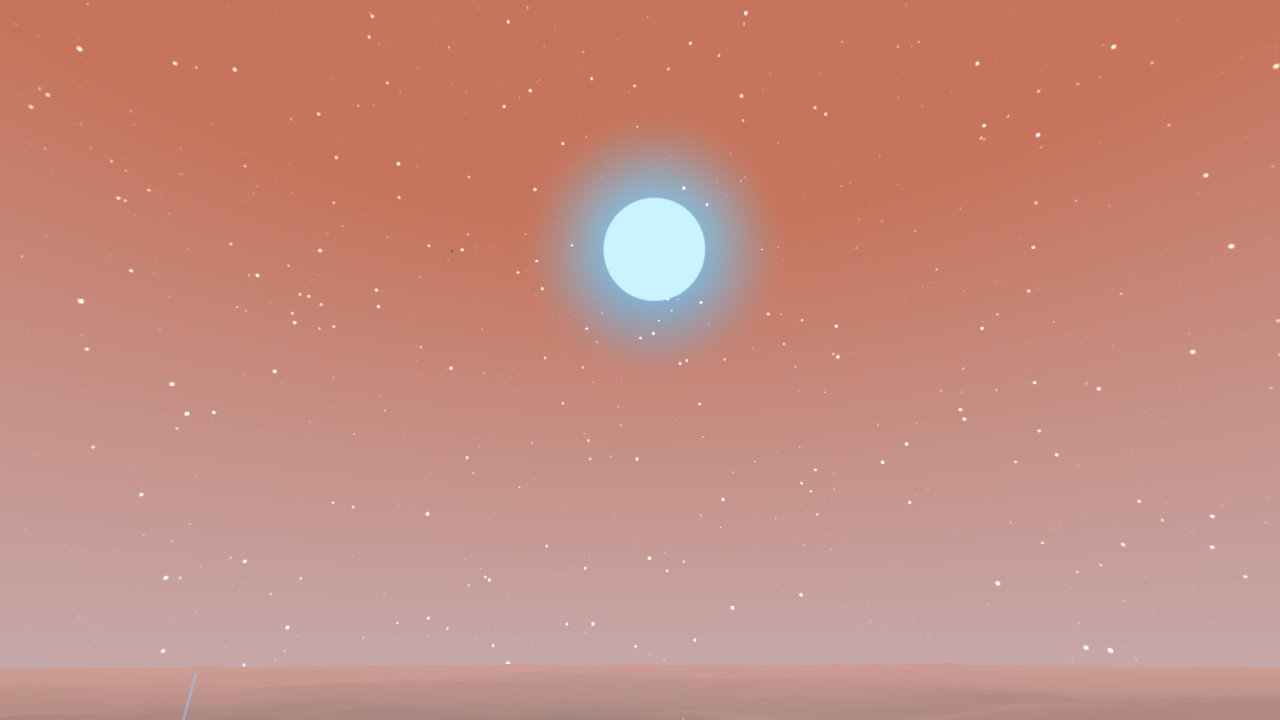
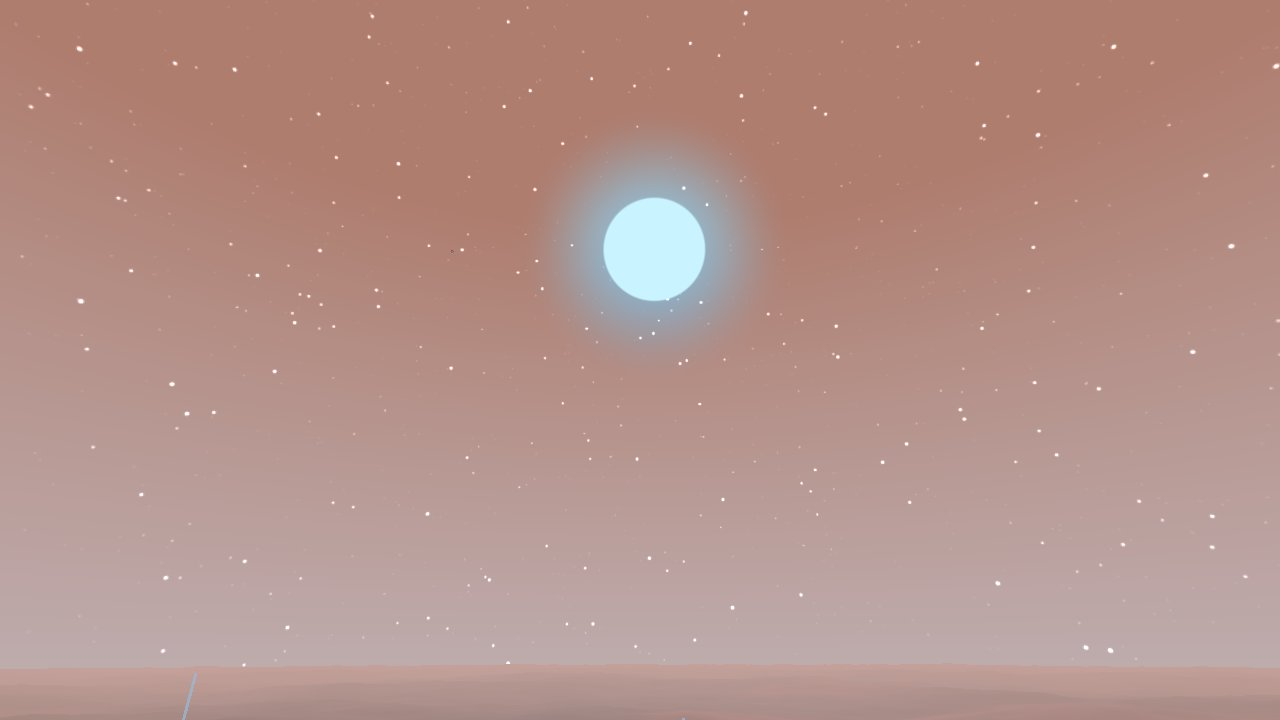
Aurelia's day sky matches Rodina's measured sky (calibrated grey-down standing in for Rodina's unrecovered filter pass)
Upper sky (174,125,110) vs measured #ae7b70 (174,123,112). Report and v8 shots updated.
Full suite: 356 passed, 0 failed.

Claude-Session: https://claude.ai/code/session_01KVkUNEuEnzA3ZQcTXczkja

diff --git a/docs/N13_GRAPHICS_PORT.md b/docs/N13_GRAPHICS_PORT.md
@@ -208,19 +208,23 @@ DeepSeek measured; HSV of the mean colour, four dominant colours). Shots: `docs/
 | Ceiling lights White/Soft/Green/Wide/Emergency | EGDataItems.lua:212-260 | data; room assignment is Sol's |
 | HUD fonts Orbitron / Audiowide / Michroma, sizes and colours | Render/MenuFonts.lua (fonts: OFL, Google Fonts) | data |
 | Camera FOV 60 while the setting is at Sol's default | EGOptions.lua:26 | data; vertical FOV inferred |
+| Aurelia day sky greyed 40 % toward its luma | measured sky #ae7b70 / #ba9996 | calibrated |
 
 Results (Sol render vs Rodina frame, mean colour):
 
 | Scene | Sol | Rodina |
 |---|---|---|
-| Ground by the landed ship vs steam01_salmon_sky_mountains | (121, 92, 85), value 0.48 | (123, 92, 83), value 0.48 |
+| Ground by the landed ship vs steam01_salmon_sky_mountains | (115, 95, 89), value 0.45 | (123, 92, 83), value 0.48 |
 | Lit planet from orbit (pixels on the disc) vs the dominant #aa7d4e | about (169, 131, 92) | (170, 125, 78) |
 | Ship against space vs videoT90_19_ship_silhouette (render from before the bloom/space-colour change) | value 0.12, hue 260 | value 0.13, hue 256 |
 | Interior cabin vs four interior frames (same earlier render) | value 0.13 | value 0.11-0.20 |
 
-Still off: the day sky is brighter and redder than Rodina's sky pixels (ours about (197, 115, 90) high up against
-#ae7b70 / #ba9996). Rodina's screen-space filter pass (RodinaAtmosphereFilter.fx, 628 bytes) probably explains it, but
-its source is not in the recovered files, so it is not ported.
+Day sky: the ported maths alone gave a sky brighter and redder than Rodina's (about (197, 115, 90) high up against
+#ae7b70). Rodina's screen-space filter pass (RodinaAtmosphereFilter.fx, 628 bytes) probably explains the gap, but its
+source is not recovered, so a calibrated stand-in greys Aurelia's sky 40 % toward its own luma (`atm_sky_desaturate`):
+the upper sky now measures (174, 125, 110) against #ae7b70 (174, 123, 112), and the sun view's dominant colours are
+#ae7d6f and #bba7a7 against Rodina's #ae7b70 and #ba9996. With the greyer sky the ground frame's mean moved to
+(115, 95, 89), value 0.45 (Rodina (123, 92, 83), 0.48).
 
 ## 11. Bigger on the inside (ADR 0012)
 
